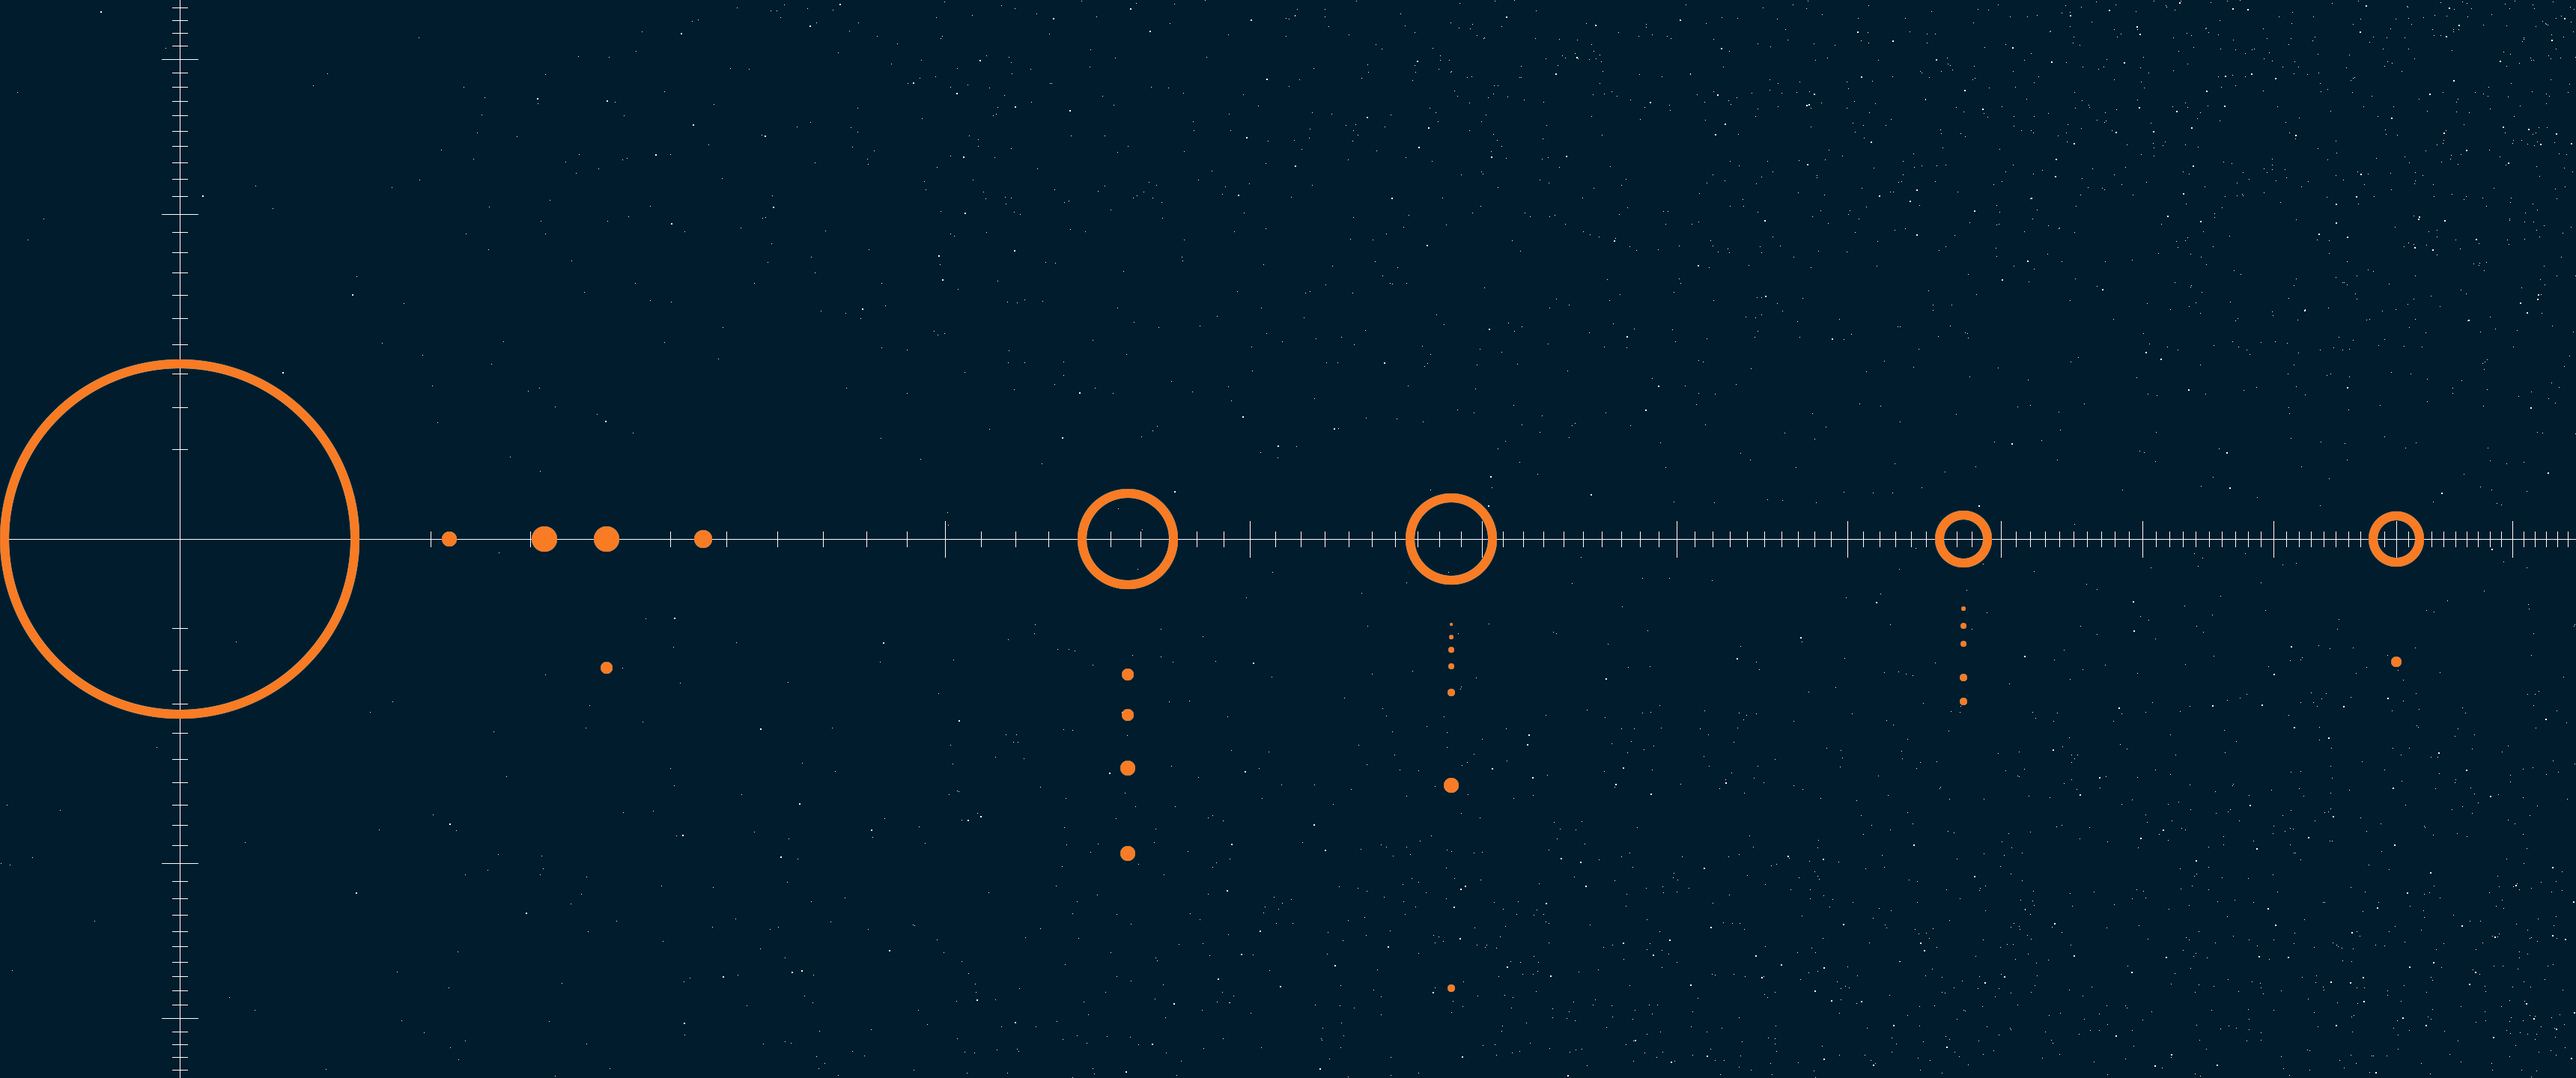
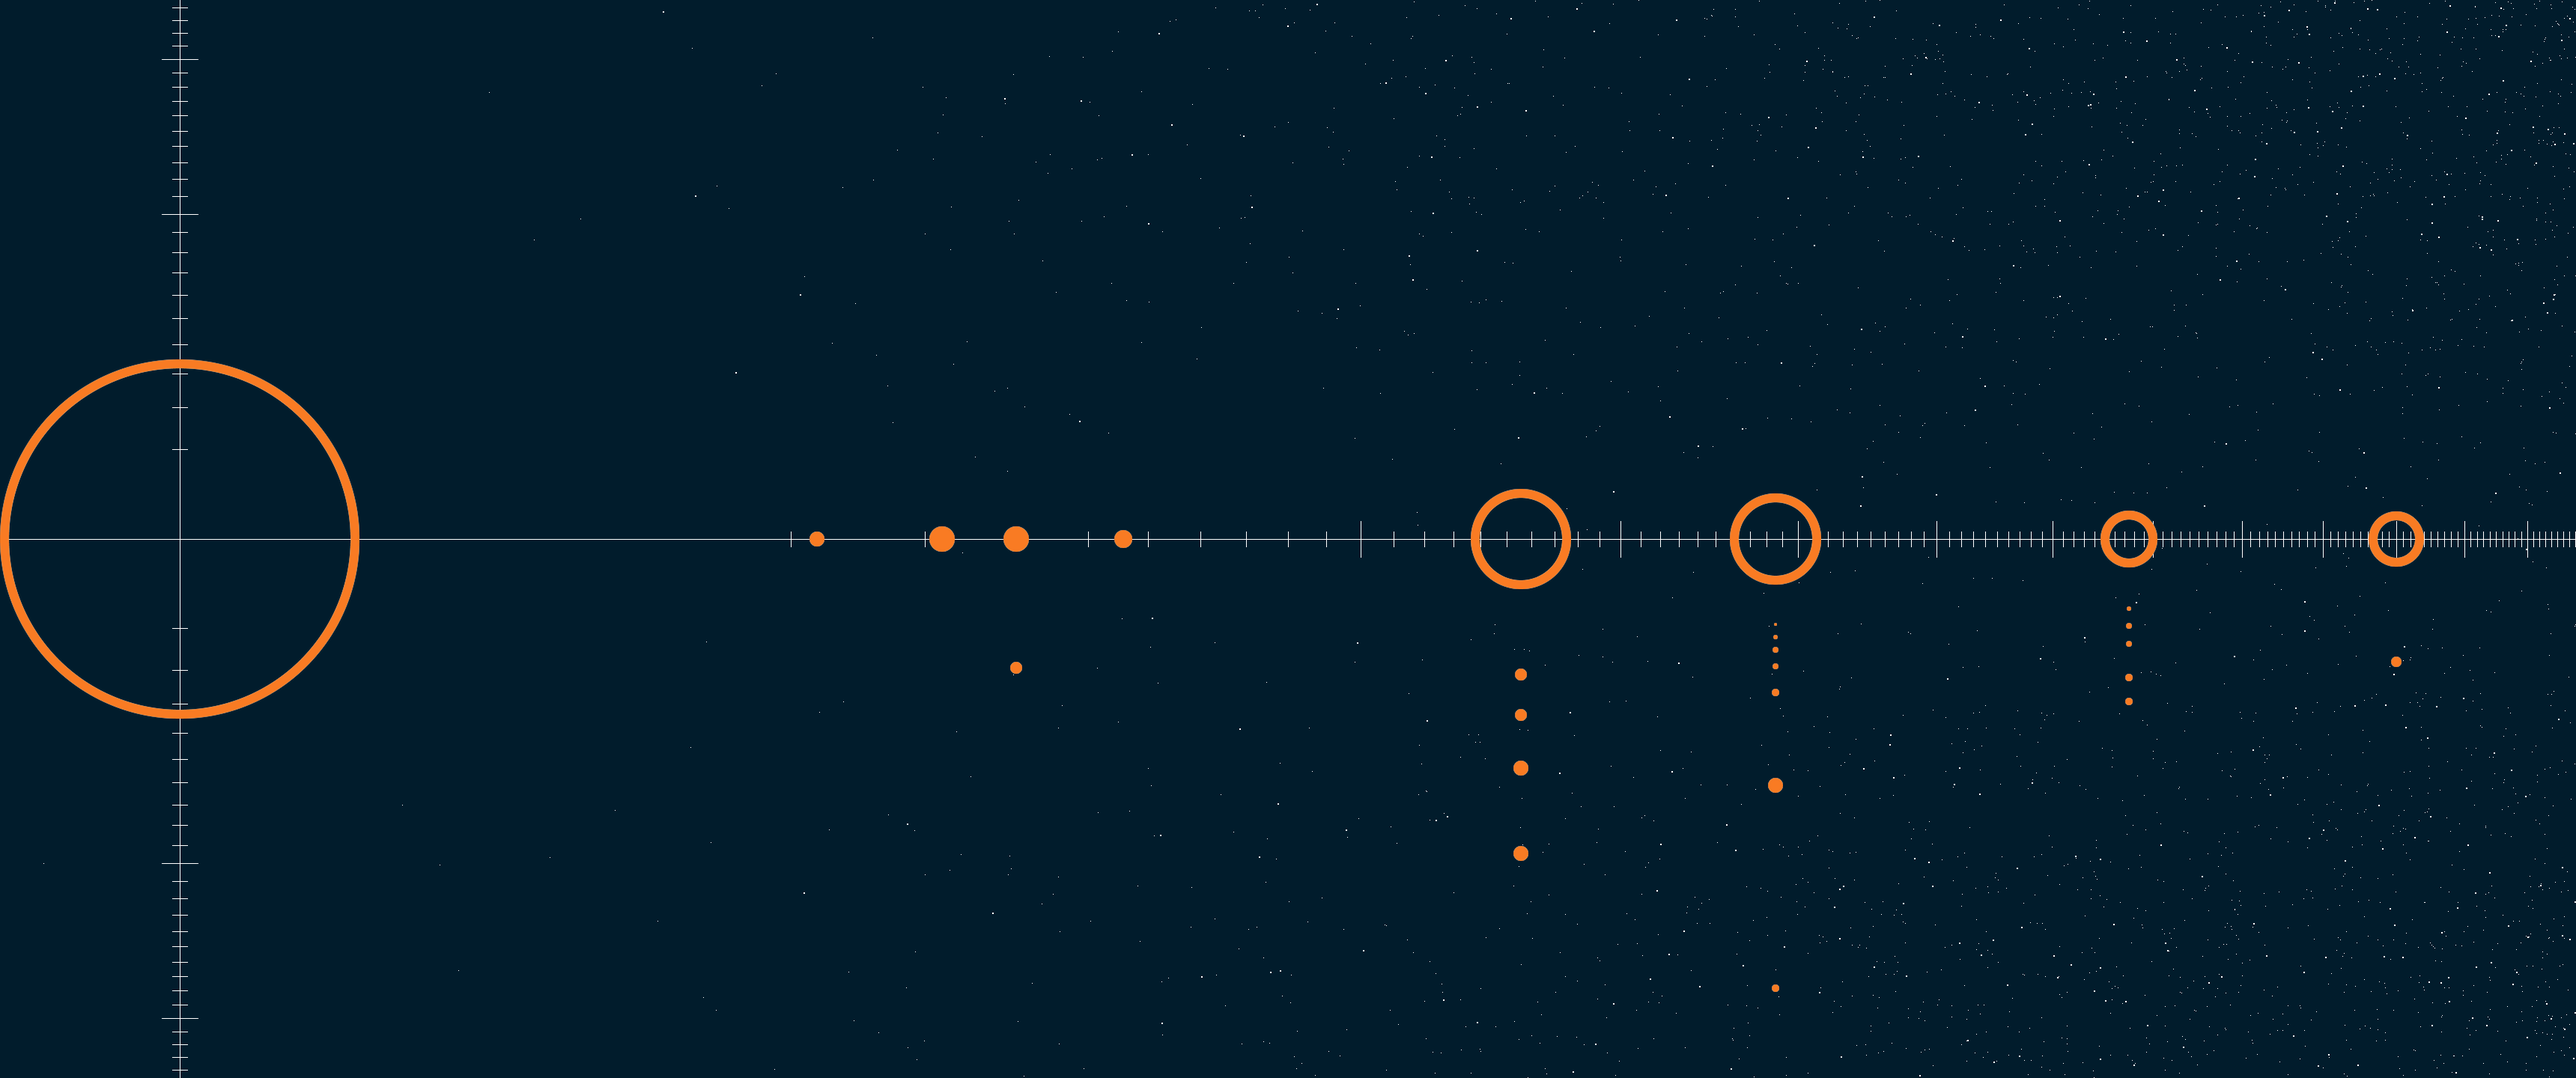
using consisten scaling for x and y axes (wrt sun radius)

diff --git a/main.py b/main.py
@@ -234,12 +234,11 @@ def load_data():
 
     return df_planets, df_moons, circles
 
-def generate_wallpaper(width, height, wide=False):
+def generate_wallpaper(width, height):
     """When wide is set to True, the x axis scaling uses sun radius as well"""
     # TODO: add checks to make sure nothing overlaps with set parameters
     # all of these are in pixels
     SUN_R = height/6 # radius of sun
-    MERCURY_X = SUN_R*1.5 # distance of mercury from sun center along x axis
     IAPETUS_Y = height*5/12 # distance of iapetus (furthest moon) along y axis of image from center
     NEPTUNE_X = width - SUN_R*2 # distance of neptune (furthest planet) from sun center along x axis
     EMPTY_CIRCLE_THICKNESS = height/120
@@ -263,16 +262,11 @@ def generate_wallpaper(width, height, wide=False):
     mapper = CoordinateMapper(SUN_R, height/2)
 
     mapper.calc_x(
-        SUN_R + MERCURY_X, df_planets["DIST FROM SUN (km)"]["Mercury"],
+        SUN_R*2, df_planets["RADIUS (km)"]["Sun"],
         SUN_R + NEPTUNE_X, df_planets["DIST FROM SUN (km)"]["Neptune"])
     mapper.calc_y(
         height/2 + SUN_R, df_planets["RADIUS (km)"]["Sun"],
         height/2 + IAPETUS_Y, df_moons["DIST FROM PLANET (km)"]["Iapetus"])
-
-    if wide:
-        mapper.calc_x(
-            SUN_R*2, df_planets["RADIUS (km)"]["Sun"],
-            SUN_R + NEPTUNE_X, df_planets["DIST FROM SUN (km)"]["Neptune"])
     # use same scaling as x axis
     # mapper.calc_y(
     #     height/2 + SUN_R + MERCURY_X, df_planets["DIST FROM SUN (km)"]["Mercury"],
@@ -321,5 +315,5 @@ if __name__ == "__main__":
     image = generate_wallpaper(3440, 1440)
     image.save()
 
-    image = generate_wallpaper(2*1920, 1080, True)
+    image = generate_wallpaper(2*1920, 1080)
     image.save(monitors=2)
